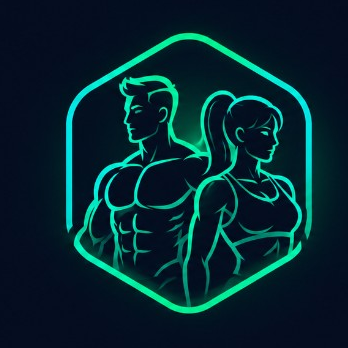
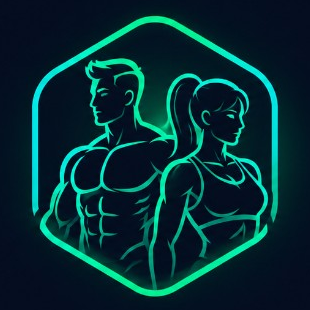
Updates

Changed region(s): [[0.0871, 0.029, 0.9, 0.9581]]

diff --git a/index.html b/index.html
@@ -11,8 +11,8 @@
     <link rel="preconnect" href="https://fonts.googleapis.com" />
     <link rel="preconnect" href="https://fonts.gstatic.com" crossorigin />
     <link href="https://fonts.googleapis.com/css2?family=Inter:wght@400;500;600;700&family=Manrope:wght@600;700;800&family=Sora:wght@600;700;800&display=swap" rel="stylesheet" />
-    <script type="module" crossorigin src="/EvoluaFit/assets/index-DdYSG7Ce.js"></script>
-    <link rel="stylesheet" crossorigin href="/EvoluaFit/assets/index-BadUwGNs.css">
+    <script type="module" crossorigin src="/EvoluaFit/assets/index-D4n3JODH.js"></script>
+    <link rel="stylesheet" crossorigin href="/EvoluaFit/assets/index-BxGHXDlv.css">
   </head>
   <body>
     <div id="root"></div>